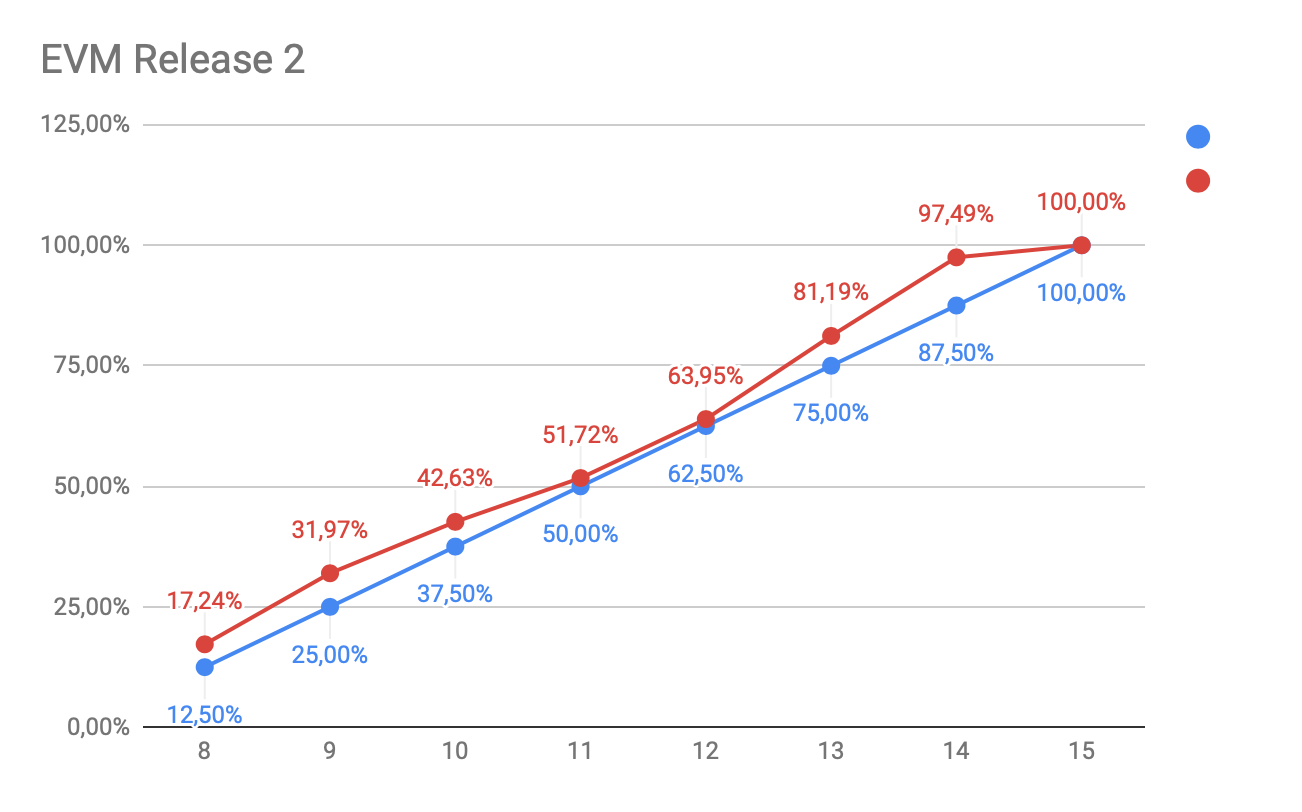
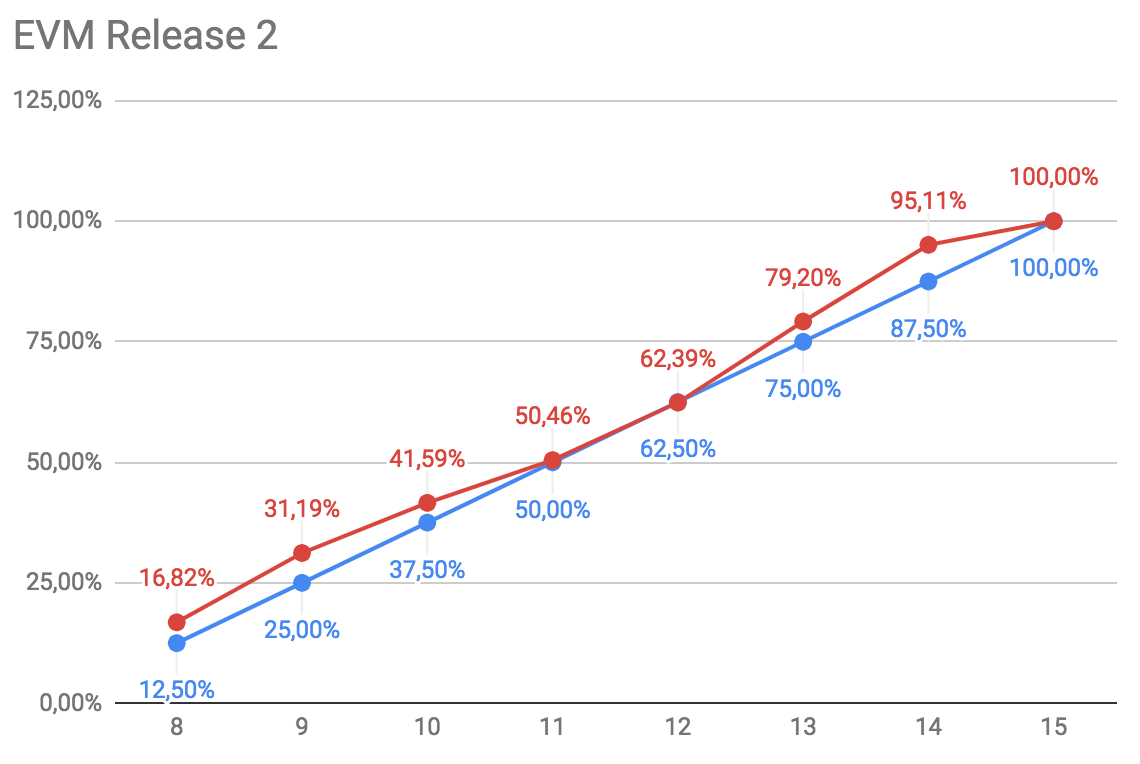
Deploy website
Deploy website version based on 0457f3b635a11df794650e4f0bc4996be1e23550

diff --git a/docs/evm.html b/docs/evm.html
@@ -75,11 +75,11 @@
 <tr><th>Métrica</th><th>Descrição</th><th>Valor</th></tr>
 </thead>
 <tbody>
-<tr><td>BAC</td><td>Orçamento Disponível Release 1</td><td>R$ 231.467,50</td></tr>
+<tr><td>BAC</td><td>Orçamento Disponível Release 2</td><td>R$ 231.467,50</td></tr>
 <tr><td>L</td><td>Tamanho da Sprint em dias</td><td>7</td></tr>
 <tr><td>PS</td><td>Total de Sprints Planejadas</td><td>7</td></tr>
 <tr><td>SD</td><td>Data de inínio</td><td>06/10/2018</td></tr>
-<tr><td>PRP</td><td>Pontos Planejados para Release 2</td><td>319</td></tr>
+<tr><td>PRP</td><td>Pontos Planejados para Release 2</td><td>327</td></tr>
 </tbody>
 </table>
 <p><img src="/2018.2-Integra-Vendas/docs/assets/evm/evm2.png" alt="Gráfico EVM Release 2"></p>

diff --git a/docs/evm/index.html b/docs/evm/index.html
@@ -75,11 +75,11 @@
 <tr><th>Métrica</th><th>Descrição</th><th>Valor</th></tr>
 </thead>
 <tbody>
-<tr><td>BAC</td><td>Orçamento Disponível Release 1</td><td>R$ 231.467,50</td></tr>
+<tr><td>BAC</td><td>Orçamento Disponível Release 2</td><td>R$ 231.467,50</td></tr>
 <tr><td>L</td><td>Tamanho da Sprint em dias</td><td>7</td></tr>
 <tr><td>PS</td><td>Total de Sprints Planejadas</td><td>7</td></tr>
 <tr><td>SD</td><td>Data de inínio</td><td>06/10/2018</td></tr>
-<tr><td>PRP</td><td>Pontos Planejados para Release 2</td><td>319</td></tr>
+<tr><td>PRP</td><td>Pontos Planejados para Release 2</td><td>327</td></tr>
 </tbody>
 </table>
 <p><img src="/2018.2-Integra-Vendas/docs/assets/evm/evm2.png" alt="Gráfico EVM Release 2"></p>
